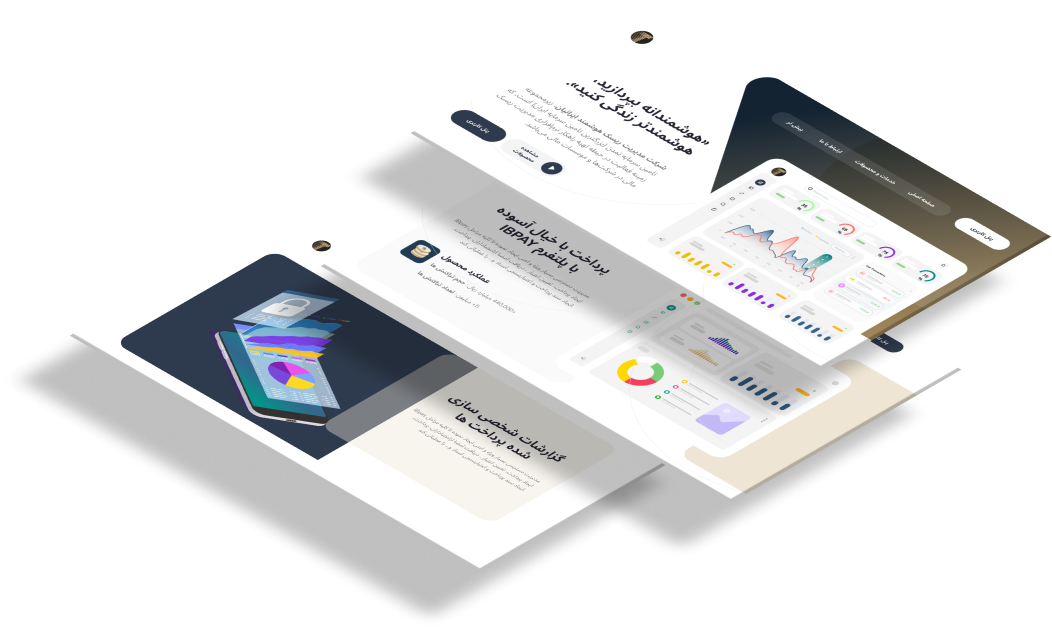
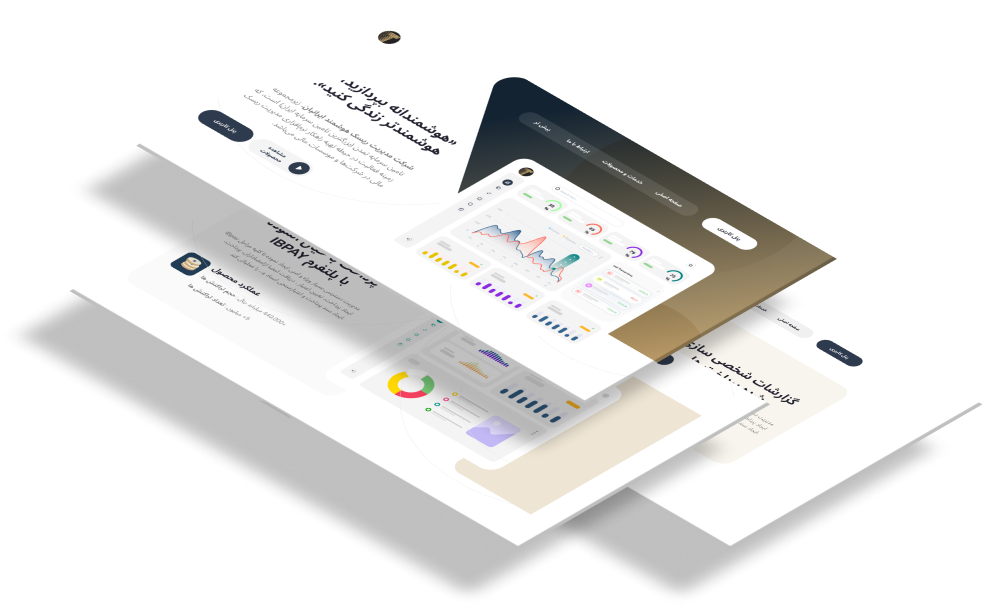
update

diff --git a/src/app/modules/home/home.component.html b/src/app/modules/home/home.component.html
@@ -12,35 +12,23 @@
     />
     <app-navigation class="mt-16"></app-navigation>
     <article class="flex flex-1 items-center justify-between mt-18">
-      <img
-        class="w-1/2"
-        src="assets/image-banner-1.png"
-        alt="Dashboard image"
-      />
       <div class="flex flex-col w-1/2 prose">
-        <h1 class="text-slate-700 leading-relaxed invert">
+        <h1 class="text-white leading-relaxed">
           «هوشمندانه بپردازید،<br />هوشمندتر زندگی کنید».
         </h1>
-        <p class="text-3xl text-zinc-500">
+        <p class="text-3xl text-white text-justify">
           <b>شرکت دانش بنیان مدیریت ریسک هوشمند ایرانیان</b>
           ، متشکل از تیمی نخبه و جوانانی متخصص در حوزه فناوری اطلاعات، بازار
           سرمایه و سیستم بانکی است که راهکارها و حل مشکلات نهادهای مالی، شرکت
           ها، کارگزاری ها، صندوق های سرمایه گذاری و ... را در خصوص حوزه پرداخت
           فراهم کرده است.
         </p>
-        <div class="flex justify-end gap-3 mt-12">
-          <button
-            class="py-6 px-13 rounded-full bg-zinc-100 text-slate-700 font-bold"
-          >
-            مشاهده محصولات
-          </button>
-          <button
-            class="py-6 px-13 rounded-full bg-slate-700 text-white font-bold"
-          >
-            پنل کاربری
-          </button>
-        </div>
       </div>
+      <img
+        class="w-1/2"
+        src="assets/image-banner-1.png"
+        alt="Dashboard image"
+      />
     </article>
   </section>
 
@@ -101,9 +89,17 @@
 
   <section class="flex flex-col w-full py-10 px-30 bg-zinc-100">
     <div class="prose max-w-full text-center">
-      <h1>خدمات گیرندگان و مشتریان</h1>
+      <h1>بانک های متصل</h1>
     </div>
-    <div class="flex items-center"></div>
+    <div class="flex items-center justify-between mt-12">
+      <img src="assets/bank-saderat.png" alt="bank" />
+      <img src="assets/bank-shahr.png" alt="bank" />
+      <img src="assets/bank-tejarat.png" alt="bank" />
+      <img src="assets/bank-sina.png" alt="bank" />
+      <img src="assets/bank-tosee.png" alt="bank" />
+      <img src="assets/bank-pasargad.png" alt="bank" />
+      <img src="assets/bank-keshavarzi.png" alt="bank" />
+    </div>
   </section>
 
   <section class="flex flex-col">
